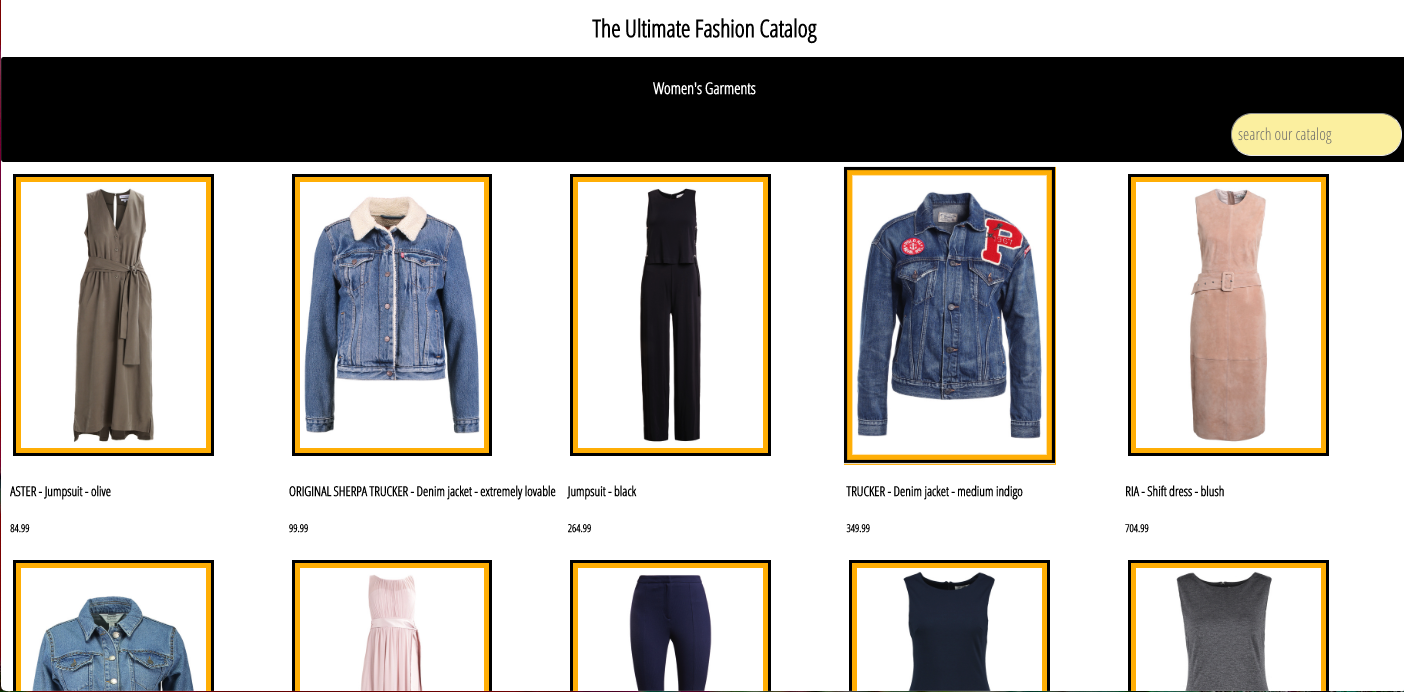
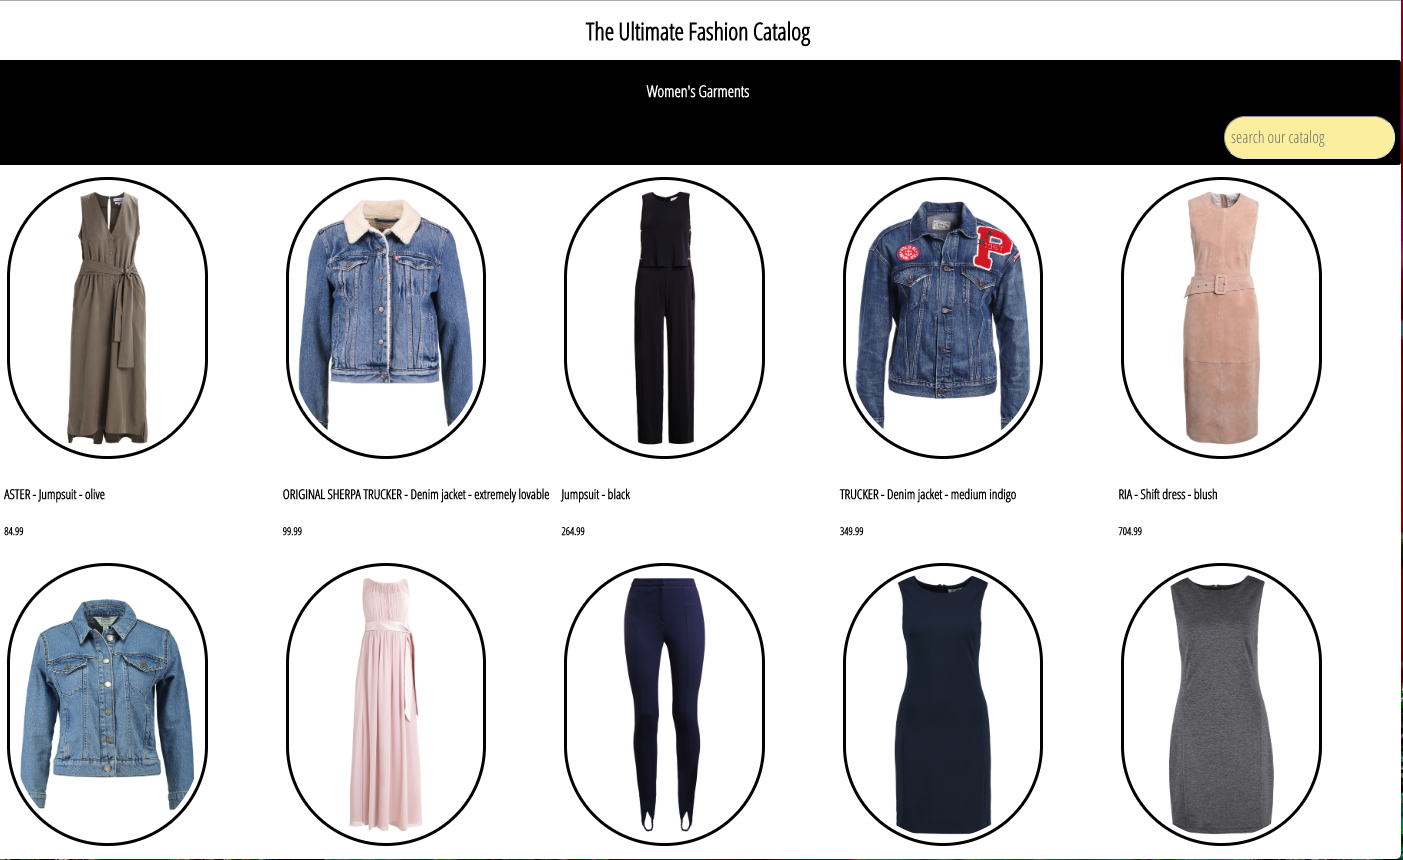
adds backend files

diff --git a/src/frontend/fashion-app-pages/fashion-catalog-page.js b/src/frontend/fashion-app-pages/fashion-catalog-page.js
@@ -4,7 +4,7 @@ const FashionCatalogPage = ({ image, description, price }) => {
 	return (
 		<div className="image-container">
 			<img
-				className="bg-gold dib  pa2 ma2 grow bg-animate transition: background-color .10s ease-in-out tc ba bw2 shadow-6"
+				className="br-pill dib pa2 ma2 grow bg-animate transition: background-color .10s ease-in-out tc ba bw2 shadow-6"
 				src={image}
 				alt="womens-garments"
 			/>

diff --git a/README.md b/README.md
@@ -103,5 +103,3 @@ fetch('https://s3-eu-west-1.amazonaws.com/stylr-ai-engine-srv-data/srv/data/arch
 - used CSS grid to make the site responsive
 - removed comments in code and tests
 - removed trial data-files
-
-
